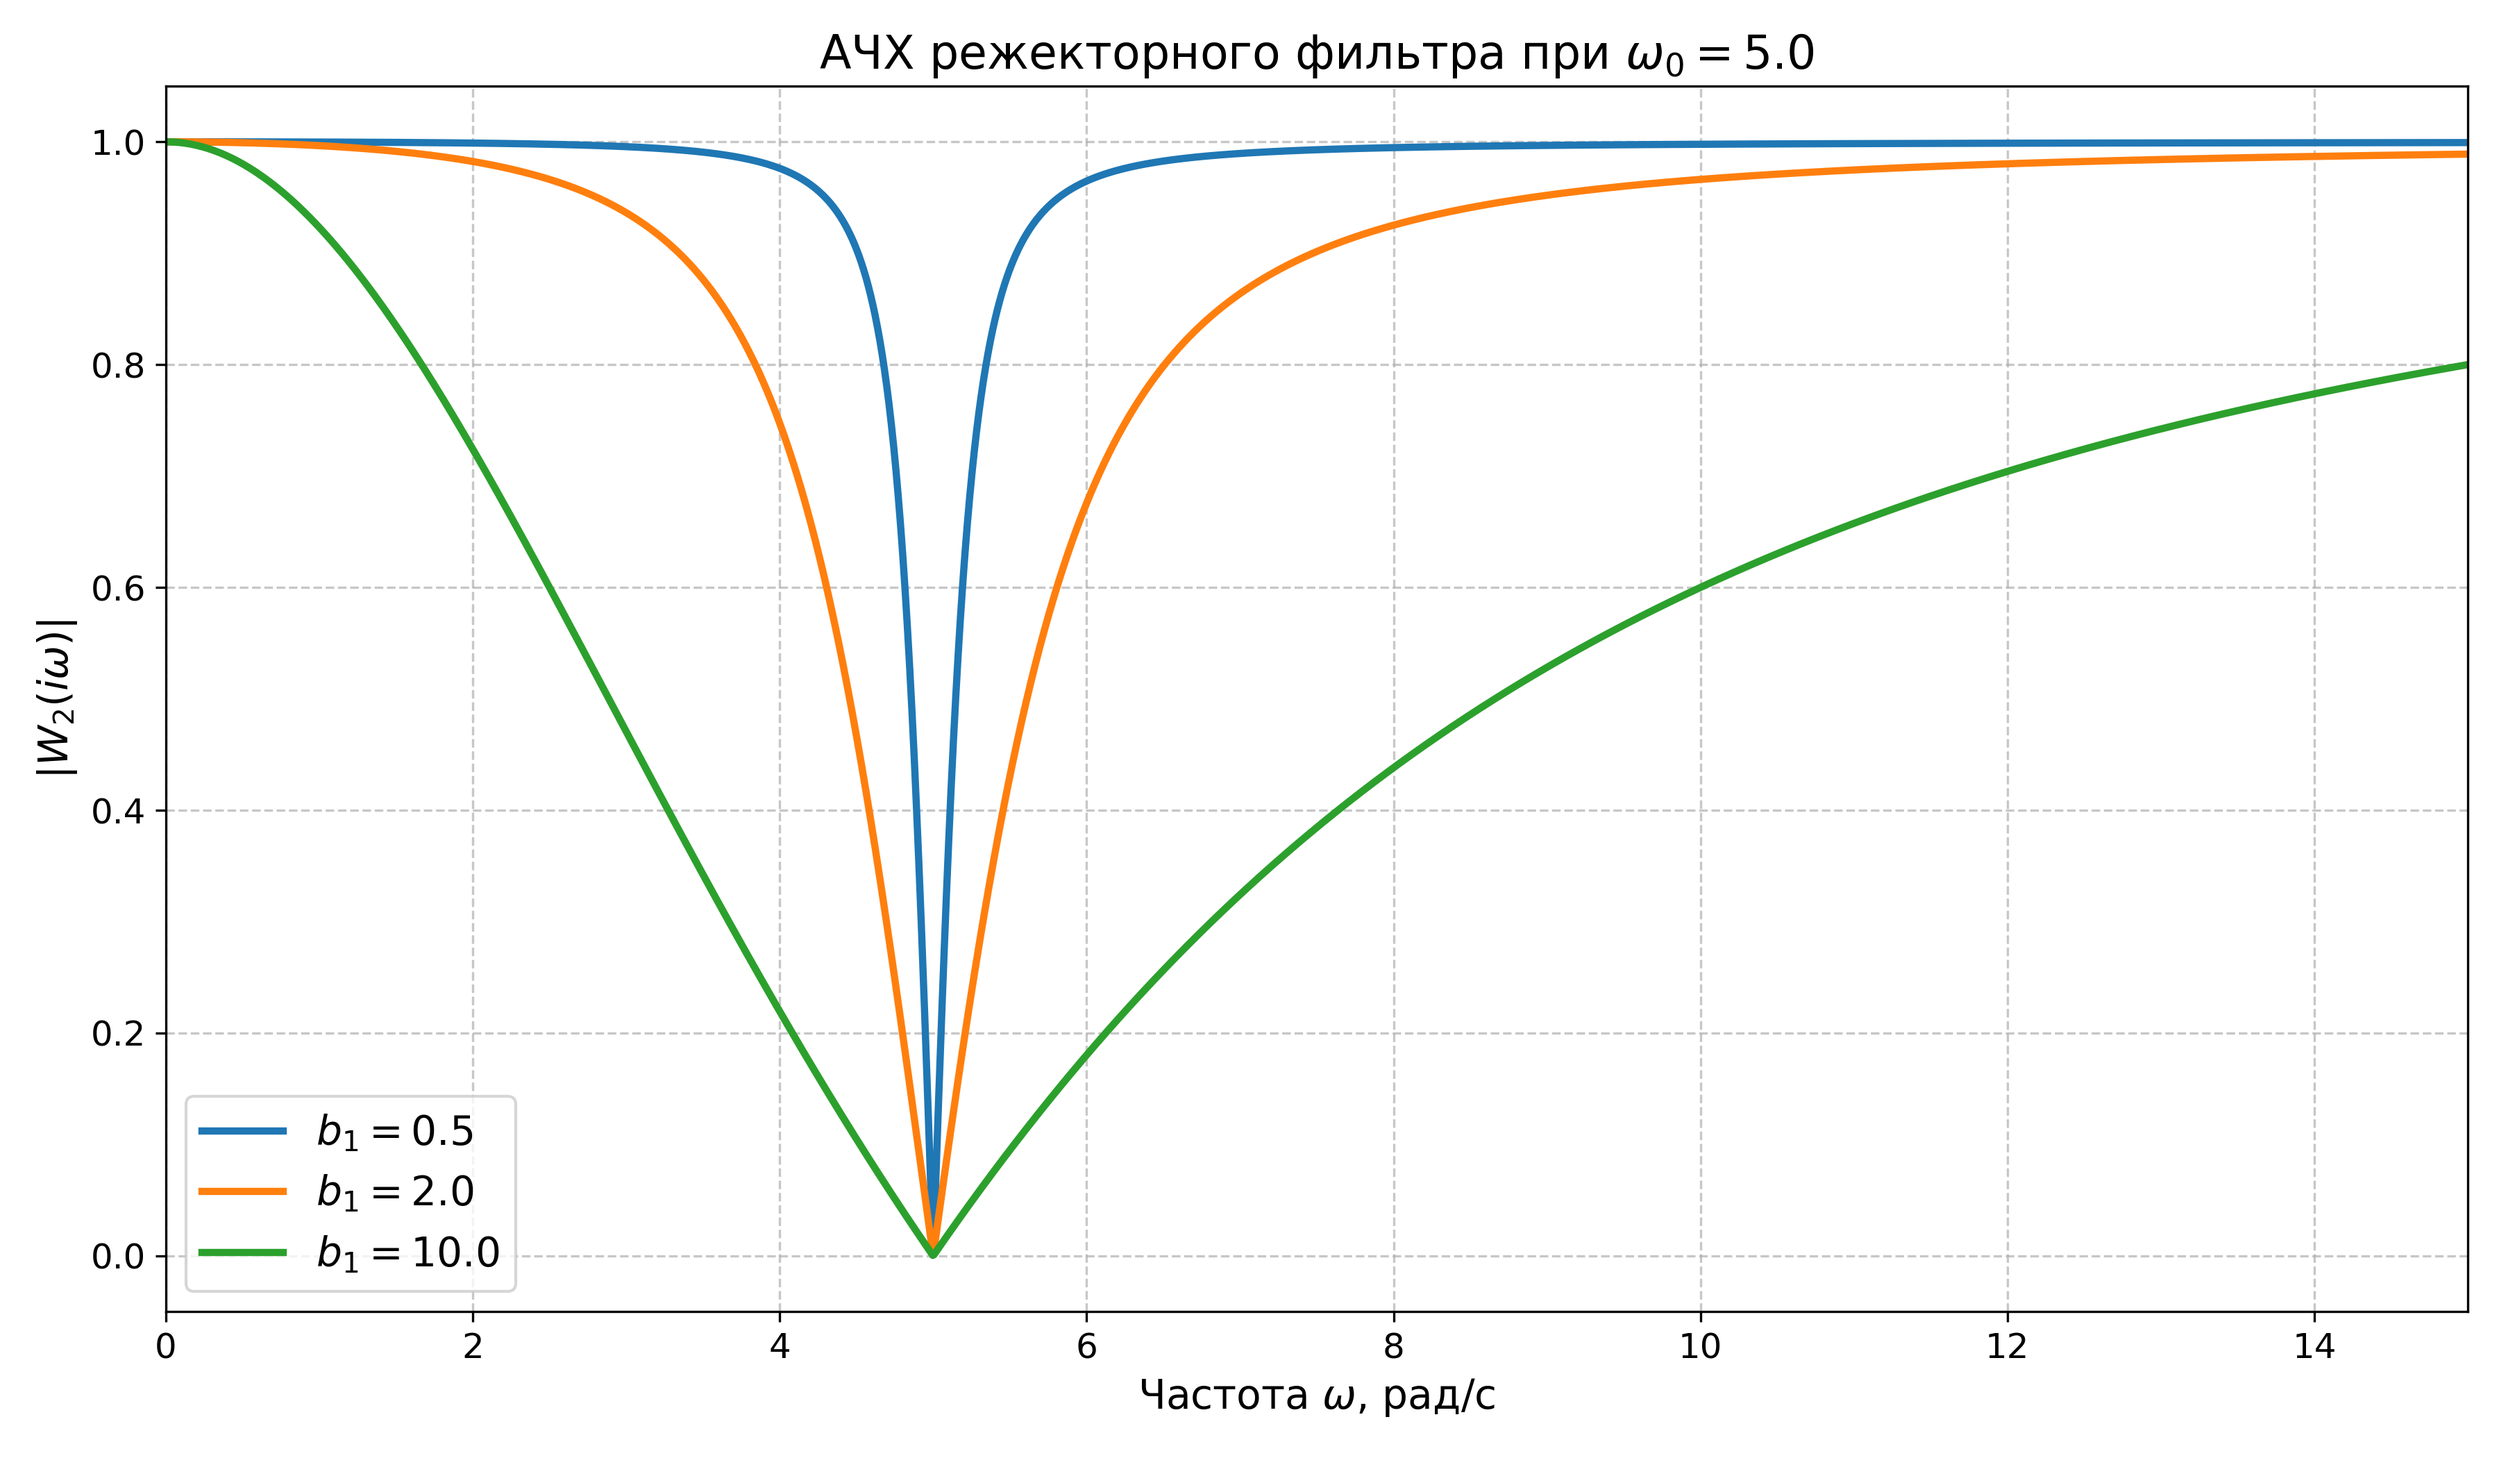
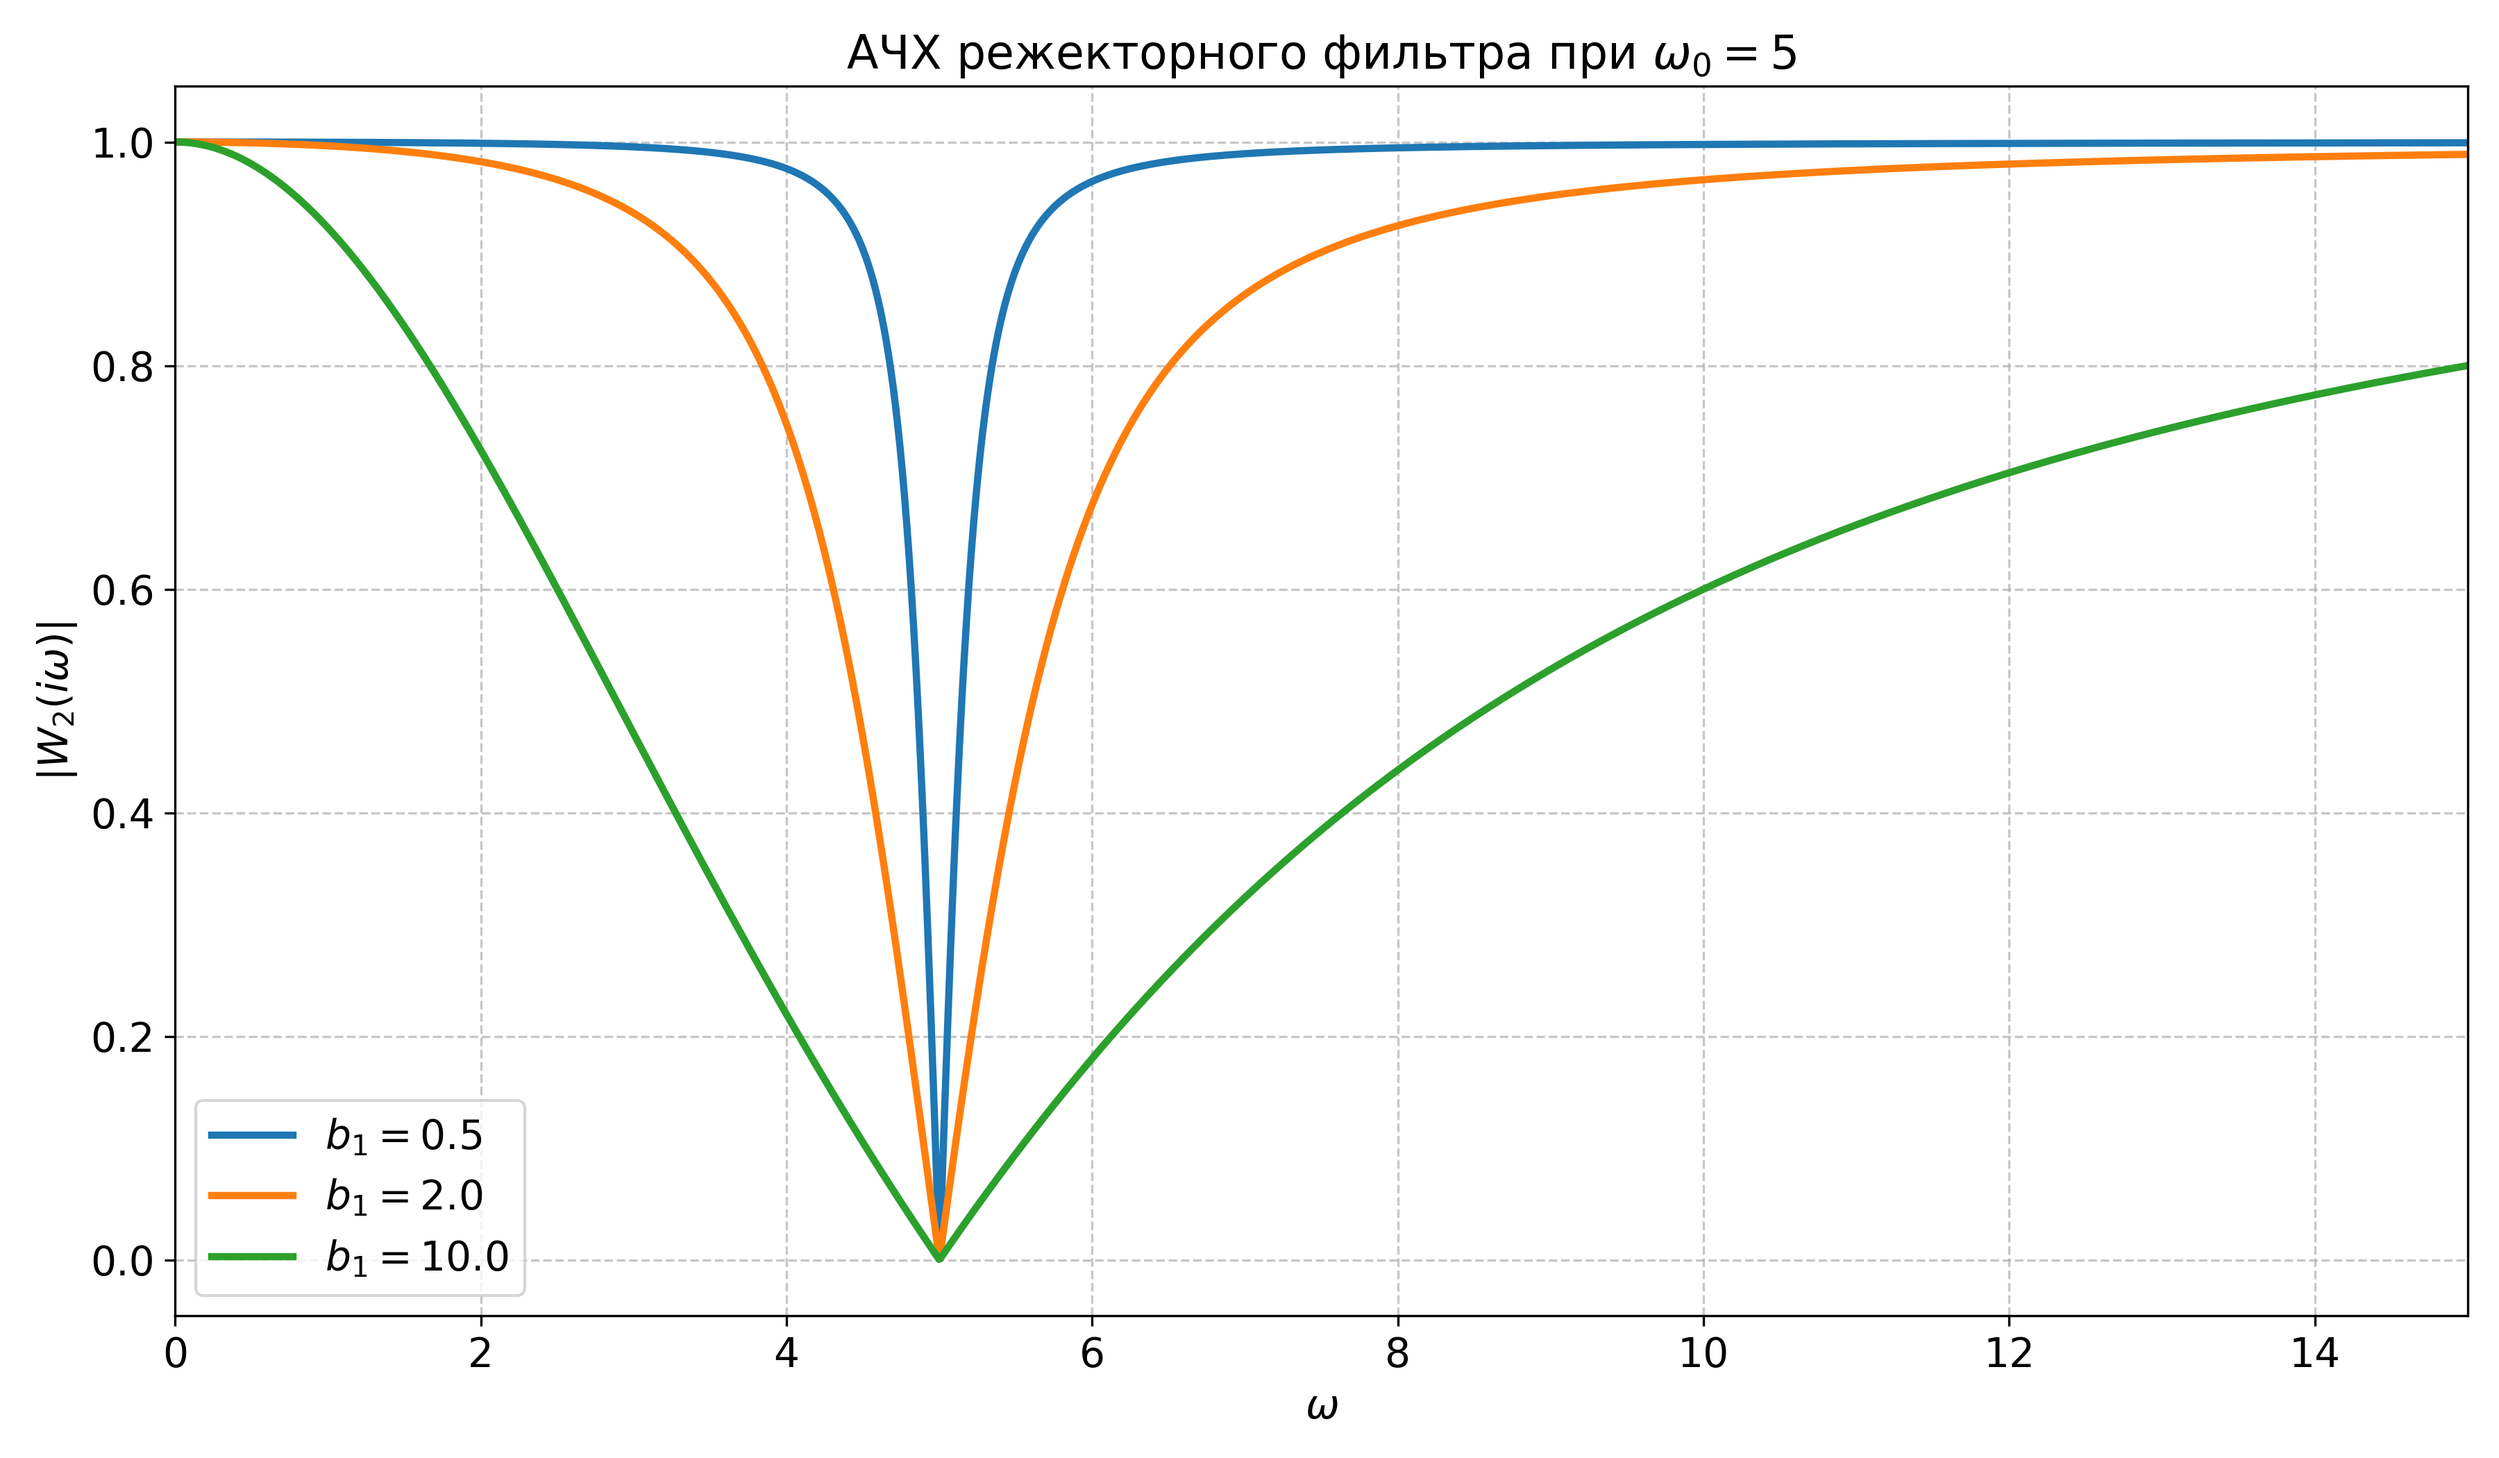
Исправил фигулинку с абсолютными и относительными путями. сменил абсолютные пути на относительные во всех кодах.

diff --git a/code/2_1/2_1_1.py b/code/2_1/2_1_1.py
@@ -32,13 +32,13 @@ def plot_notch_filter_afc():
         plt.plot(omega, afc, label=f'$b_1 = {b1}$', linewidth=2.5)
 
     # --- Оформление графика ---
-    plt.title(f'АЧХ режекторного фильтра при $\omega_0={omega_0}$', fontsize=16)
-    plt.xlabel(r'Частота $\omega$, рад/с', fontsize=14)
+    plt.title(f'АЧХ режекторного фильтра при $\omega_0=5$', fontsize=16)
+    plt.xlabel(r'$\omega$', fontsize=14)
     plt.ylabel(r'$|W_2(i\omega)|$', fontsize=14)
     plt.grid(True, which='both', linestyle='--', alpha=0.7)
     plt.legend(fontsize=14)
-    plt.xticks(fontsize=12)
-    plt.yticks(fontsize=12)
+    plt.xticks(fontsize=14)
+    plt.yticks(fontsize=14)
     plt.xlim(0, 15)
     plt.ylim(-0.05, 1.05)
     plt.tight_layout()

diff --git a/code/1_4/1_4_1.py b/code/1_4/1_4_1.py
@@ -3,7 +3,7 @@ import numpy as np
 import matplotlib.pyplot as plt
 
 # Директория для сохранения графиков
-output_dir = r"C:\Users\fmusa\ITMOStudies\freq_methods\freq_methods_lab4\images"
+output_dir = r"images"
 
 # Создание директории, если она ещё не существует
 if not os.path.exists(output_dir):

diff --git a/code/1_4/1_4_2.py b/code/1_4/1_4_2.py
@@ -33,7 +33,7 @@ def plot_and_save_single(filename, plot_data):
     plt.tight_layout()
 
     # Сохранение
-    save_dir = r"C:\Users\fmusa\ITMOStudies\freq_methods\freq_methods_lab4\images\1_4_2"
+    save_dir = r"images\1_4_2"
     os.makedirs(save_dir, exist_ok=True)
     filepath = os.path.join(save_dir, filename)
     plt.savefig(filepath, dpi=300)

diff --git a/code/1_4/1_4_3.py b/code/1_4/1_4_3.py
@@ -40,7 +40,7 @@ def create_and_save_plot(filename, data):
     plt.yticks(fontsize=14)
     plt.tight_layout()
 
-    save_dir = r"C:\Users\fmusa\ITMOStudies\freq_methods\freq_methods_lab4\images\1_4_3"
+    save_dir = r"images\1_4_3"
     os.makedirs(save_dir, exist_ok=True)
     filepath = os.path.join(save_dir, filename)
     plt.savefig(filepath, dpi=300)

diff --git a/code/1_4/1_4_4.py b/code/1_4/1_4_4.py
@@ -44,7 +44,7 @@ def create_and_save_plot(filename, data):
     plt.yticks(fontsize=14)
     plt.tight_layout()
 
-    save_dir = r"C:\Users\fmusa\ITMOStudies\freq_methods\freq_methods_lab4\images\1_4_4"
+    save_dir = r"images\1_4_4"
     os.makedirs(save_dir, exist_ok=True)
     filepath = os.path.join(save_dir, filename)
     plt.savefig(filepath, dpi=300)

diff --git a/code/1_4/1_4_5.py b/code/1_4/1_4_5.py
@@ -50,7 +50,7 @@ def create_and_save_plot(filename, data):
     plt.xlim(-15, 15)
     plt.tight_layout()
 
-    save_dir = r"C:\Users\fmusa\ITMOStudies\freq_methods\freq_methods_lab4\images\1_4_5"
+    save_dir = r"images\1_4_5"
     os.makedirs(save_dir, exist_ok=True)
     filepath = os.path.join(save_dir, filename)
     plt.savefig(filepath, dpi=300)

diff --git a/code/1_4/1_4_6.py b/code/1_4/1_4_6.py
@@ -47,7 +47,7 @@ def create_and_save_plot(filename, data):
     plt.xlim(-15, 15)
     plt.tight_layout()
 
-    save_dir = r"C:\Users\fmusa\ITMOStudies\freq_methods\freq_methods_lab4\images\1_4_6"
+    save_dir = r"images\1_4_6"
     os.makedirs(save_dir, exist_ok=True)
     filepath = os.path.join(save_dir, filename)
     plt.savefig(filepath, dpi=300)
